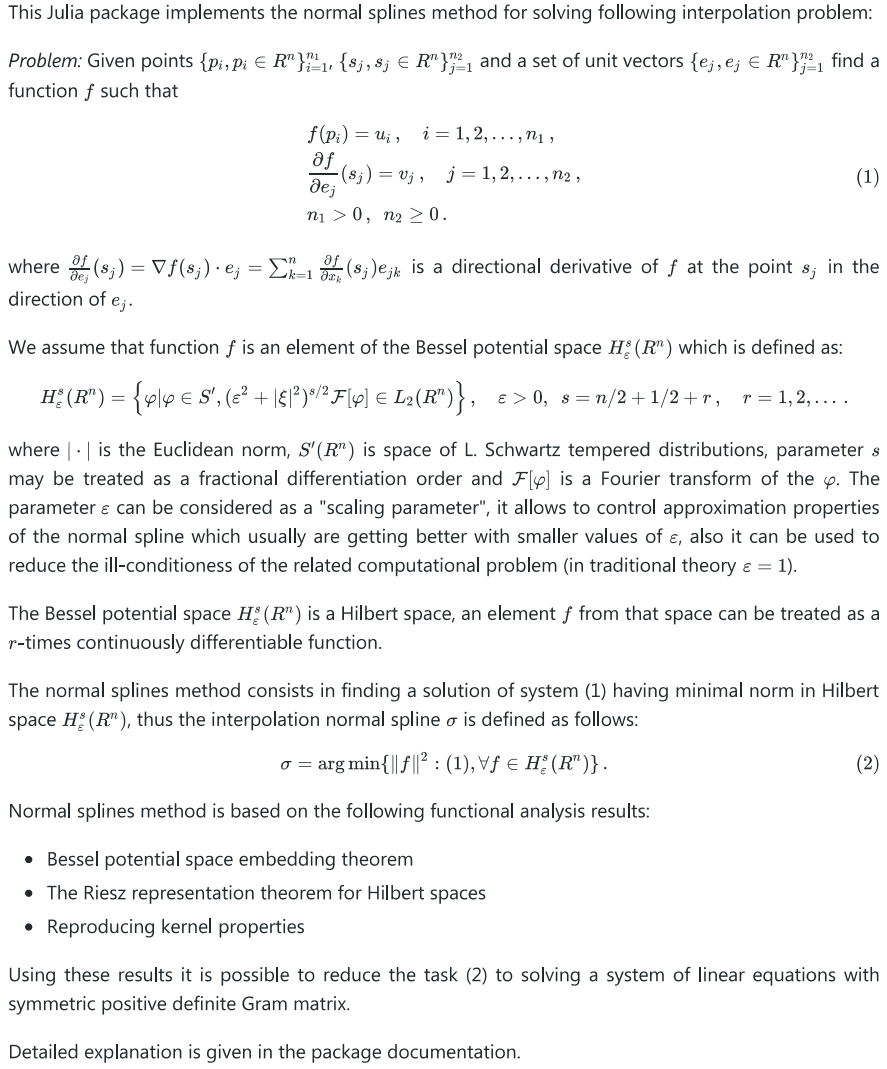
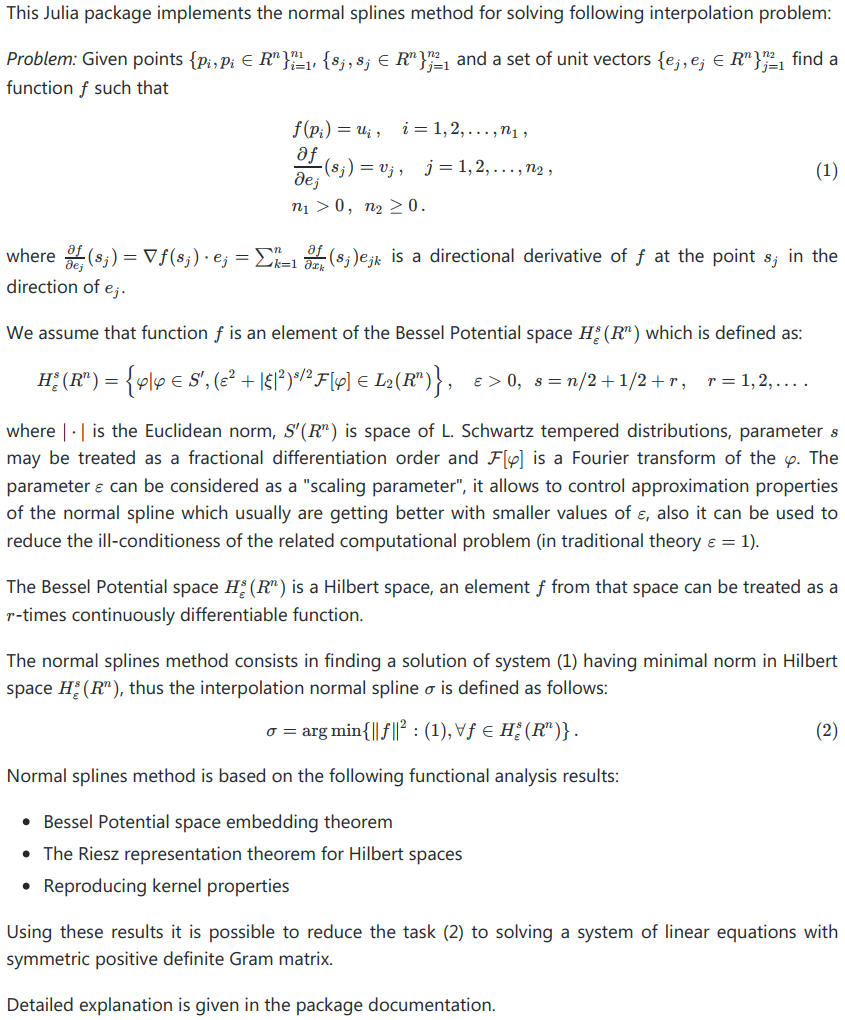
.

diff --git a/docs/src/Normal-Splines-Method.md b/docs/src/Normal-Splines-Method.md
@@ -1,0 +1,93 @@
+# Normal Splines Method
+
+A problem of reconstruction of multivariate dependency under incomplete data set arises in many areas of research. Often there is a finite set of experimental measurements ``\{ \tilde u_i\}_{i=1}^m`` and we may treat an unknown function ``\varphi (x)`` as an element of a Hilbert space ``H(R^n)``. Consider the following data model
+
+```math
+\tag{1}
+(f_i ,\varphi) =  u_i  \, , \qquad   \tilde  u_i\ = u_i + \epsilon_i \, \qquad        1 \le i \le  \ m,
+```
+where ``\{f_i\}`` are linear continuous functionals, ``\{u_i\}`` - "exact value of measurement", and ``\{\epsilon_i\}`` - random values uniformly distributed in ``\left[ -\delta , \delta \right]``. Hence we have a system of constraints
+
+```math
+\tag{2}
+\left| (f_i ,\varphi) - \tilde u_i \right| \le \delta \, , \qquad 1 \le i \le \ m \, .
+```
+Problem of the function ``\varphi`` reconstruction is under-determined. We will approximate ``\varphi`` by constructing an element of minimal norm from the set of the system (2) solutions. Let's introduce a penalty functional ``J``
+
+```math
+(J, \varphi) = { \| \varphi\| }_H ^2 \ ,
+```
+and find a function ``\varphi`` in the Hilbert space ``H`` to minimize ``J`` subject to (2) (here ``\| \cdot \|_H`` denotes the ``H`` norm). Solution of this problem is a generalized spline of Atteia-Laurent [1]. We name it a normal spline following to the V. Gorbunov work [2] where the normal spline-collocation method for linear ordinary differential and integral equations was developed.
+
+The normal spline method consists of a Hilbert norm minimization on the set of a collocation system solutions. In contrast to the classical collocation methods the basis system here is not given a priory, instead it is constructed in accordance with the chosen Hilbert space norm. The base functions are canonical images of the continuous linear functionals presented as inner product in the Hilbert space. Such functional presentation can be found if the Hilbert space ``H`` is a reproducing kernel Hilbert space and the corresponding reproducing kernel is known. In order to construct a reproducing kernel useful for a case of one-dimensional problems treated in [2] it was sufficient to suppose the Hilbert space ``H`` is a classical Sobolev space with integer order. Multivariate generalization of the normal spline method described in this blog was done ([6] — [10]) with usage of the Bessel potential spaces [3].
+
+Essentially the normal spline method  is based on classical functional analysis results: the Sobolev and Bessel Potential space embedding theorems [4], the F.Riesz representation theorem [5] and Reproducing kernel properties.
+
+Here and further we assume that ``\{f_i\}`` are linearly independent functionals therefore the set of the system (2) solutions is not empty, convex and closed one. It is known that every closed convex set in a Hilbert space has a unique element of minimal norm [1, 5] - here it is a uniform smoothing normal spline:
+```math
+\tag{3}
+      \sigma = {\mathop{\rm arg\,min}\nolimits} \lbrace {\| \varphi \| }^2_H : (2) \rbrace \ .
+```
+In general a normal spline can be treated as a projection of an element of a Hilbert space to a closed convex set in that Hilbert space. Thereby the problem (3) always has the unique solution.
+
+In accordance with Riesz representation theorem [5] every linear continuous functional ``f_i`` on a Hilbert space ``H`` can be represented as inner product of some element ``h_i \in H`` and ``\varphi \in H``, for any ``\varphi \in H`` :
+```math
+      (f_i ,\varphi) = {\langle h_i , \varphi \rangle}_H \, , \qquad  \forall \varphi \in H \  ,
+```
+where ``{\langle \cdot , \cdot \rangle}_H`` - inner product in ``H``. Then (2) can be written in form:
+```math
+\tag{4}
+    | {\langle h_i , \varphi \rangle}_H - \tilde u_i | \le \delta \, ,     \qquad 1 \le i \le m \  .
+```
+and problem (2) is reduced to:
+```math
+\tag{5}
+      \sigma = {\mathop{\rm arg\,min}\nolimits} \lbrace {\langle \varphi , \varphi \rangle}_H : (4) \rbrace \ .
+```
+In accordance with extremum conditions for the problem (5) its solution can be presented in form [1]:
+```math
+    \sigma =  \sum _{j=1} ^m (\mu _j - \mu _{j+m}) h_j \ , \quad  \quad \mu _j  \le 0 , \quad \mu _{j+m} \le 0 , \quad 1\le j \le m .
+```
+It allows to reduce the initial problem (5) of constructing a uniform smoothing normal spline to solving a finite-dimensional quadratic programming problem:
+```math
+\tag{6}
+\begin{aligned}
+   &   \sigma = {\mathop{\rm arg\,min}} \Big\lbrace {\sum _{i=1} ^m \sum _{j=1} ^m   (\mu _i - \mu _{i+m}) (\mu _j - \mu _{j+m}) g_{ij}} : (10), (11) \Big\rbrace \ ,
+\\  &  \Big| \sum _{j=1} ^m g_{ij} (\mu _j - \mu _{j+m}) - \tilde u_i \Big| \, \le \, \delta \, ,    \qquad 1 \le i \le m \  ,
+\\  & \mu _j  \le 0 , \quad \mu _{j+m} \le 0 , \quad 1\le j \le m \ ,
+\end{aligned}
+```
+here ``g_{ij}={\langle h_i , h_j \rangle}_H `` - coefficients of the symmetric Gram matix of the set of the elements ``\{h_i\}, h_i \in H``. Notice that elements ``\{h_i\}`` (images of functionals ``\{f_i\}``) are linearly independent therefore the Gram matrix is a positive definite one.
+
+It was shown [2] that it is not necessary to formulate the problem (6) in its explicit form. A special version of algorithm for solving this simple quadratic programming problem will be described in the next posts.
+
+Results related to multidimensional normal spline method and its applications were published in works [6, 10] and presented at conferences [8, 9, 11, 12].
+
+**References**
+
+[1] P.-J. Laurent, Approximation et optimization, Paris, 1972.
+
+[2] V. Gorbunov, A Method of  Normal Spline Collocation, Computational Mathematics and Mathematical Physics. 1989. Vol.29. No.2.
+
+[3] N. Aronszajn, K. Smith, Theory of bessel potentials I, Ann.Inst.Fourier, 11, 1961. 
+
+[4] S. Sobolev, Some applications of functional analysis in mathematical physics, AMS, 2008.
+
+[5] A. Balakrishnan, Applied Functional Analysis, New York, Springer-Verlag, 1976.
+
+[6] I. Kohanovsky, Normal Splines in Computing Tomography. Avtometriya, No. 2, 1995 (https://www.iae.nsk.su/images/stories/5_Autometria/5_Archives/1995/2/84-89.pdf).
+
+[7] I. Kohanovsky, Data approximation using multidimensional normal splines, Unpublished manuscript, 1996.
+
+[8] I. Kohanovsky, Multidimensional Normal Splines and Problem of Physical Field Approximation, International Conference on Fourier Analysis and its Applications, Kuwait, 1998.
+
+[9] I. Kohanovsky, Normal splines in fractional order Sobolev spaces and some of its
+applications, The Third Siberian Congress on Applied and Industrial mathematics 
+(INPRIM-98), Novosibirsk, 1998.
+
+[10] V. Gorbunov, I. Kohanovsky, K. Makedonsky, Normal splines in reconstruction of multi-dimensional dependencies. Papers of WSEAS International Conference on Applied Mathematics, Numerical Analysis Symposium, Corfu, 2004. (http://www.wseas.us/e-library/conferences/corfu2004/papers/488-312.pdf)
+
+[11] I. Kohanovsky, Inequality-Constrained Multivariate Normal Splines with Some Applications in Finance. 27th GAMM-Seminar Leipzig on Approximation of Multiparametric functions, Max-Planck-Institute for Mathematics in the Sciences, Leipzig, Germany, 2011.
+
+[12] V. Gorbunov, I. Kohanovsky, Heterogeneous Parallel Method for the Construction of Multi-dimensional Smoothing Splines. ESCO 2014 4th European Seminar on Computing. University of West Bohemia, Plzen, Czech Republic, 2014.
+

diff --git a/docs/src/Interpolating-Normal-Splines.md b/docs/src/Interpolating-Normal-Splines.md
@@ -170,7 +170,7 @@ Further
 \end{aligned}
 ```
 
-Here normal hermite splines will be constructed in Bessel Potential spaces ``H^{s_1}_\varepsilon (R^n) , \, s_1 = n/2 + 3/2`` and ``H^{s_2}_\varepsilon (R^n) , \, s_2 = n/2 + 5/2``. Elements of space ``H^{s_1}`` can be treated as  continuously differentiable functions and elements of space ``H^{s_2}`` can be treated as twice continuously differentiable functions. Note, the spline is infinitely differentiable everywhere in ``R^n`` excepting the knots ``p_i`` and ``s_j``.
+Here normal hermite splines will be constructed in Bessel Potential spaces ``H^{s_1}_\varepsilon (R^n) , \, s_1 = n/2 + 3/2`` and ``H^{s_2}_\varepsilon (R^n) , \, s_2 = n/2 + 5/2``. Elements of space ``H^{s_1}`` can be treated as  continuously differentiable functions and elements of space ``H^{s_2}`` can be treated as twice continuously differentiable functions. Note, the spline is infinitely differentiable everywhere in ``R^n`` excepting the nodes ``p_i`` and ``s_j``.
 
 Reproducing kernel of Bessel Potential space was presented in [5] and its simplified form was given in [14], [18], [19], [20]. For space ``H^{s}_\varepsilon (R^n), \, s = n/2 + 1/2 + r, \, r \ge 0`` it can be written as:
 
@@ -284,7 +284,7 @@ When value of the parameter $\varepsilon$ is small this normal spline is similar
 
 We now consider the choice of value for parameterd $\varepsilon$. In a case when value of this parameter is small the normal spline is similar to Duchon's $D^m -$spline [12]. Approximating properties of the normal spline are getting better with smaller values of $\varepsilon$, however with decreasing value of $\varepsilon$ the condition number of the corresponding Gram matrix is increasing. Therefore, when choosing the value of parameter $\varepsilon$, a compromise is needed. In practice, it is necessary to choose such value of the $\varepsilon$ that condition number of Gram matrix is small enough. Numerical procedures of the matrix condition number estimation are well known.
 
-As well, it is useful to preprocess the source data of the problem by transforming the domain where interpolation knots are located into the unit hypercube.
+As well, it is useful to preprocess the source data of the problem by transforming the domain where interpolation nodes are located into the unit hypercube.
 
 The normal splines method for one-dimensional function interpolation and linear ordinary differential and integral equations was proposed in [8] and [9] and developed in [10]. Multivariate generalization of the normal splines method was developed for two-dimensional problem of low-range computerized tomography in [15] and applied for solving a mathematical economics problem in [11]. Further results were reported on seminars and conferences [14,21,22].
 

diff --git a/images/problem-definition-jl.md b/images/problem-definition-jl.md
@@ -14,7 +14,7 @@ This Julia package implements the normal splines method for solving following in
 ``` 
 where ``\frac{ \partial{f} }{ \partial{e_j} }(s_j) = \nabla f(s_j) \cdot e_j = \sum _{k=1}^{n}  \frac{ \partial{f} }{ \partial{x_k} } (s_j) e_{jk}`` is a directional derivative of ``f`` at the point ``s_j`` in the direction of ``e_j``.
 
-We assume that function ``f`` is an element of the Bessel potential space ``H^s_\varepsilon (R^n)`` which is defined as:
+We assume that function ``f`` is an element of the Bessel Potential space ``H^s_\varepsilon (R^n)`` which is defined as:
 
 ```math
    H^s_\varepsilon (R^n) = \left\{ \varphi | \varphi \in S' ,
@@ -23,7 +23,7 @@ We assume that function ``f`` is an element of the Bessel potential space ``H^s_
 ```
 where ``| \cdot |`` is the Euclidean norm, ``S'  (R^n)`` is space of L. Schwartz tempered distributions, parameter ``s`` may be treated as a fractional differentiation order and ``\mathcal F [\varphi ]`` is a Fourier transform of the ``\varphi``. The parameter ``\varepsilon`` can be considered as a "scaling parameter", it allows to control approximation properties of the normal spline which usually are getting better with smaller values of ``\varepsilon``, also it can be used to reduce the ill-conditioness of the related computational problem (in traditional theory ``\varepsilon = 1``).
 
-The Bessel potential space ``H^s_\varepsilon (R^n)`` is a Hilbert space, an element ``f`` from that space can be treated as a ``r``-times continuously differentiable function.
+The Bessel Potential space ``H^s_\varepsilon (R^n)`` is a Hilbert space, an element ``f`` from that space can be treated as a ``r``-times continuously differentiable function.
 
 The normal splines method consists in finding a solution of system (1) having minimal norm in Hilbert space ``H^s_\varepsilon (R^n)``, thus the interpolation normal spline ``\sigma`` is defined as follows:
 
@@ -34,7 +34,7 @@ The normal splines method consists in finding a solution of system (1) having mi
 
 Normal splines method is based on the following functional analysis results:
 
-* Bessel potential space embedding theorem
+* Bessel Potential space embedding theorem
 * The Riesz representation theorem for Hilbert spaces
 * Reproducing kernel properties 
 

diff --git a/docs/src/index.md b/docs/src/index.md
@@ -70,6 +70,7 @@ Pages = [
       "Parameter-Choice.md",
       "Numerical-Tests.md",
       "Tests-with-real-data.md",
+      "Normal-Splines-Method.md",
       "Riesz-representers.md",
       "Reproducing-Kernel-of-Bessel-Potential-space.md",
       "Interpolating-Normal-Splines.md",
